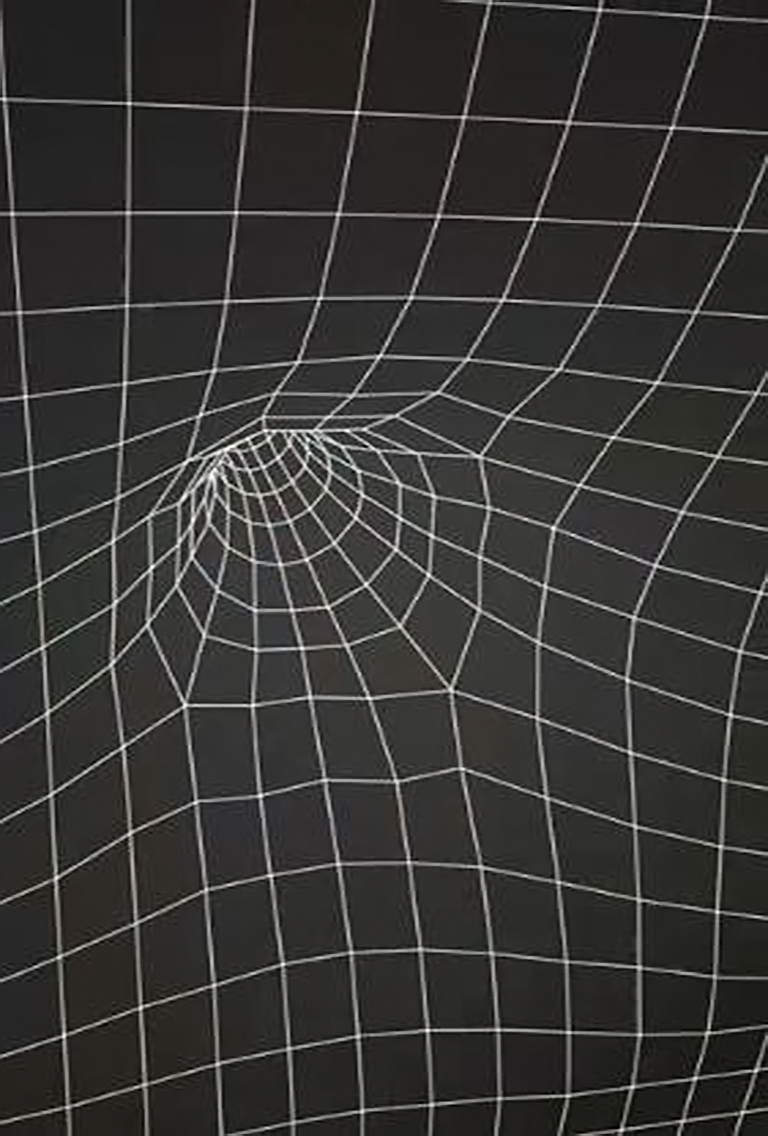
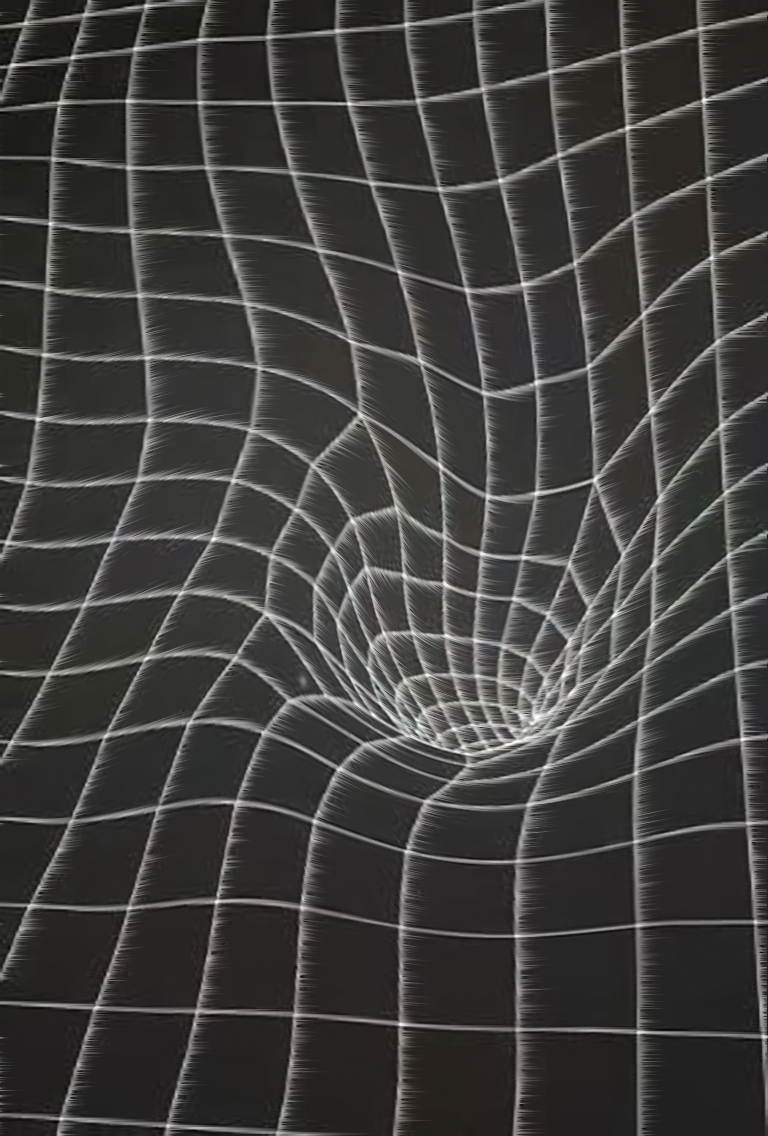
flip up and down

diff --git a/changeableball/Classes/ballGamescene.cpp b/changeableball/Classes/ballGamescene.cpp
@@ -68,7 +68,7 @@ void BallGameScene::onEnter()
     
     CCSprite* pBg4 = Sprite::create("images/bg4.png");
     pBg4->setPosition(ccp(size.width/2,size.height/2));
-    pBg4->setOpacity(220);
+    pBg4->setOpacity(230);
     addChild(pBg4);
     pBg4->setScale(get_content_scale_factor(), get_content_scale_factor());
     
@@ -103,7 +103,7 @@ void BallGameScene::onEnter()
     
     menu->alignItemsVerticallyWithPadding(10);
     
-    menu->setPosition(ccp(size.width/2,size.height/3));
+    menu->setPosition(ccp(size.width/2,size.height/5));
     
     
 //    auto backgroundButton = cocos2d::extension::Scale9Sprite::create("Images/button.png");
@@ -120,23 +120,23 @@ void BallGameScene::onEnter()
 //    button->addTargetWithActionForControlEvents(this, cccontrol_selector(BallGameScene::playingNow), cocos2d::extension::Control::EventType::TOUCH_DOWN);
 //    button->setPosition(ccp(size.width/2,size.height/3));
 
-    MenuItemFont::setFontName("American Typewriter");
-    MenuItemFont::setFontSize(30);
-    auto title1 = MenuItemFont::create("Sound");
-    title1->setEnabled(false);
-    MenuItemFont::setFontName( "fonts/Marker Felt.ttf" );
-    MenuItemFont::setFontSize(50);
-    auto item1 = MenuItemToggle::createWithCallback( CC_CALLBACK_1(BallGameScene::musicControl, this),
-                                                    MenuItemFont::create( "music On" ),
-                                                    MenuItemFont::create( "music Off"),
-                                                    nullptr );
-    item1->setEnabled(true);
-    auto musciMenu = Menu::create(item1, nullptr);
-    musciMenu->setPosition(ccp(size.width/2,size.height/5));
-    
-    //            musciMenu->alignItemsInColumns(2, 2, 2, 2, 1, NULL);
-//    musciMenu->setVisible(false);
-    addChild( musciMenu );
+//    MenuItemFont::setFontName("American Typewriter");
+//    MenuItemFont::setFontSize(30);
+//    auto title1 = MenuItemFont::create("Sound");
+//    title1->setEnabled(false);
+//    MenuItemFont::setFontName( "fonts/Marker Felt.ttf" );
+//    MenuItemFont::setFontSize(50);
+//    auto item1 = MenuItemToggle::createWithCallback( CC_CALLBACK_1(BallGameScene::musicControl, this),
+//                                                    MenuItemFont::create( "music On" ),
+//                                                    MenuItemFont::create( "music Off"),
+//                                                    nullptr );
+//    item1->setEnabled(true);
+//    auto musciMenu = Menu::create(item1, nullptr);
+//    musciMenu->setPosition(ccp(size.width/2,size.height/5));
+//    
+//    //            musciMenu->alignItemsInColumns(2, 2, 2, 2, 1, NULL);
+////    musciMenu->setVisible(false);
+//    addChild( musciMenu );
 
     
     this-> addChild(menu);
